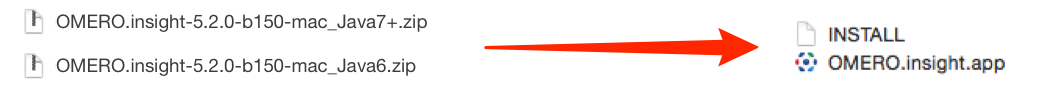
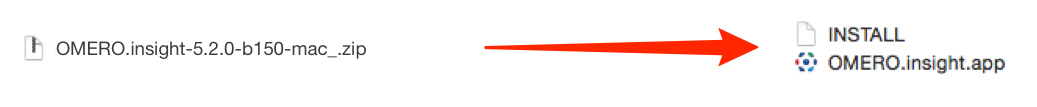
Updating text + downloads and zip screenshots to remove Mac Java versions

Changed region(s): [[0.0, 0.0841, 0.432, 0.7009], [0.0309, 0.7009, 0.0617, 0.729]]

diff --git a/getting-started-5.html b/getting-started-5.html
@@ -58,22 +58,6 @@ your standard login for the institution&#8217;s networked computers.</p>
 <div class="line"><br /></div> <!-- end #line -->
 </div> <!-- end #line-block -->
 
-<div class="line-block">
-<div class="line"><br /></div> <!-- end #line -->
-</div> <!-- end #line-block -->
-
-<div class="note">
-<p class="note-title">Note</p>
-<p class="note-text">Mac OS X users should download the clients matching their installed Java version.</p>
-<p class="note-text">With MacOS X 10.7 and later, install the latest Java Runtime Environment (JRE) and use the Java 7+ downloads.</p>
-<p class="note-text">With MacOS X 10.6 you can only use the Java 6 download.</p>
-</div><!-- End note -->
-
-<div class="line-block">
-<div class="line"><br /></div>
-<div class="line"><br /></div>
-</div>
-
 </li>
 
 <li><p class="first">Expand OMERO.insight client archive and move it to your home directory.</p>

diff --git a/sls-getting-started.html b/sls-getting-started.html
@@ -65,22 +65,6 @@ redirect_from:
 <div class="line"><br /></div> <!-- end #line -->
 </div> <!-- end #line-block -->
 
-<div class="line-block">
-<div class="line"><br /></div> <!-- end #line -->
-</div> <!-- end #line-block -->
-
-<div class="note">
-<p class="note-title">Note</p>
-<p class="note-text">Mac OS X users should download the clients matching their installed Java version.</p>
-<p class="note-text">With MacOS X 10.7 and later, install the latest Java Runtime Environment (JRE) and use the Java 7+ downloads.</p>
-<p class="note-text">With MacOS X 10.6 you can only use the Java 6 download.</p>
-</div><!-- End note -->
-
-<div class="line-block">
-<div class="line"><br /></div>
-<div class="line"><br /></div>
-</div>
-
 </li>
 
 <li><p class="first">Expand OMERO.insight client archive and move it to your home directory.</p>
